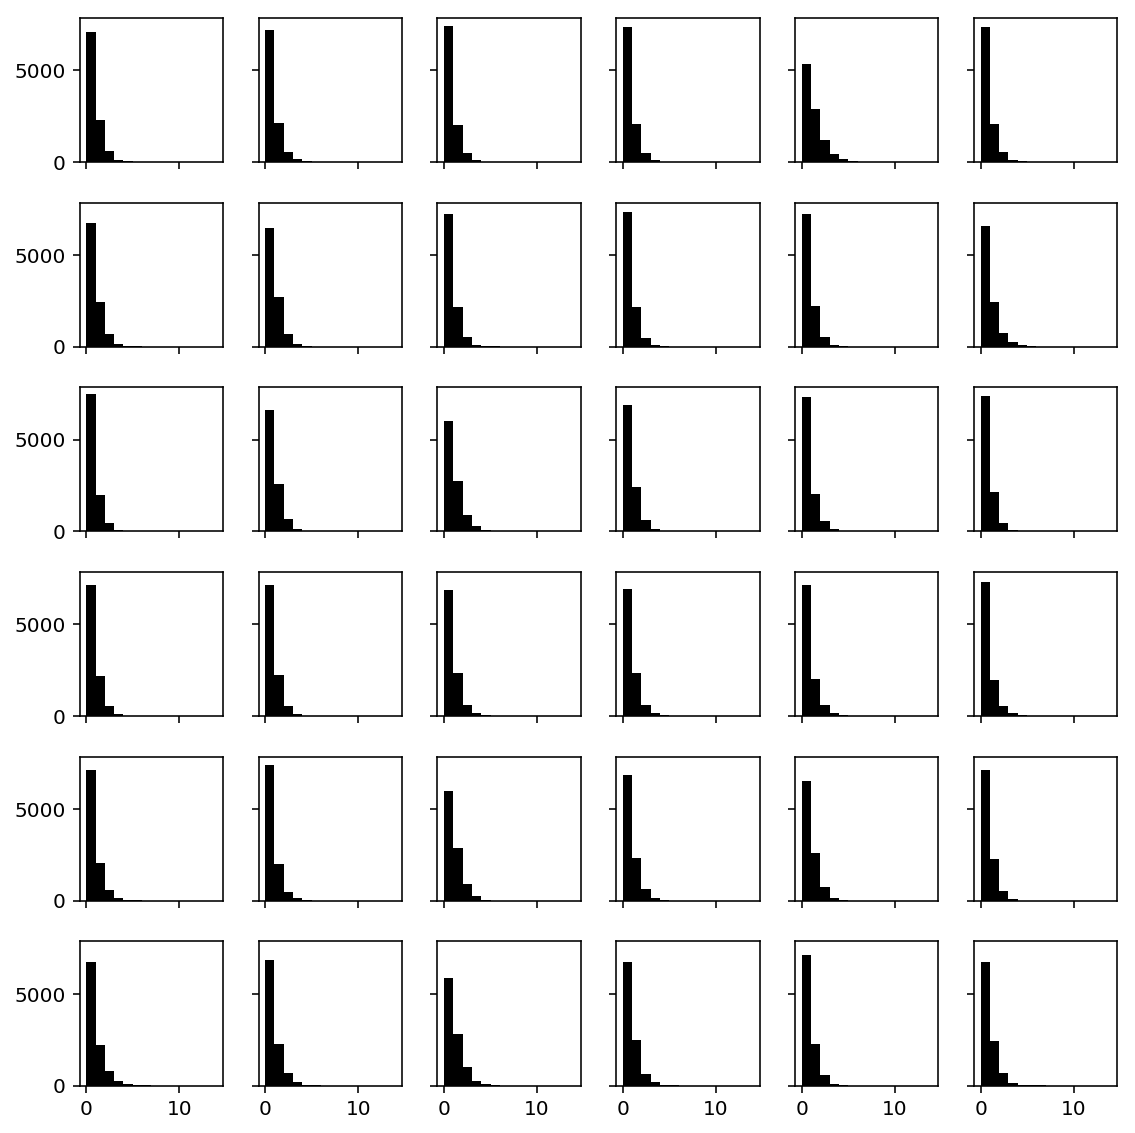
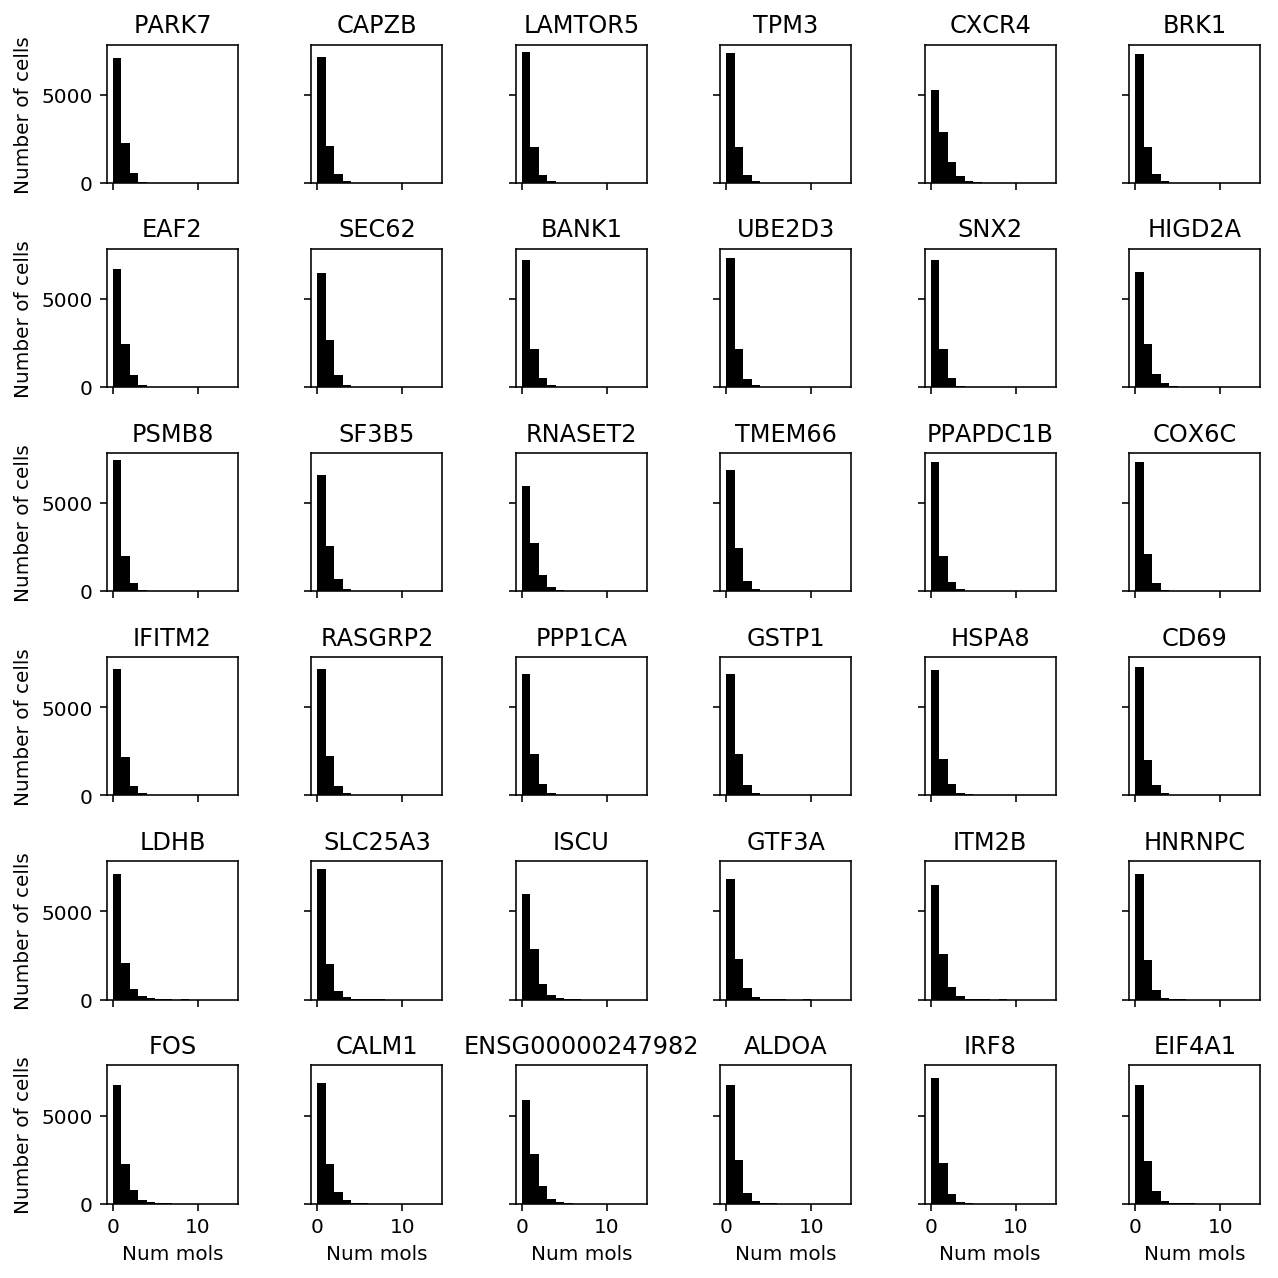
Plot more examples

diff --git a/docs/deconvolution.html b/docs/deconvolution.html
@@ -1,7 +1,7 @@
 <!DOCTYPE html>
 <html lang="en">
 <head>
-<!-- 2019-04-06 Sat 16:21 -->
+<!-- 2019-04-06 Sat 16:45 -->
 <meta charset="utf-8">
 <meta name="viewport" content="width=device-width, initial-scale=1">
 <title>Comparison of expression deconvolution approaches</title>
@@ -1188,7 +1188,7 @@ In B cells, several genes are better fit by DESCEND than other methods.
 </p>
 
 <div class="org-src-container">
-<pre class="src src-ipython"><span class="org-variable-name">b_cells</span> = read_10x(<span class="org-string">'/project2/mstephens/aksarkar/projects/singlecell-ideas/data/10xgenomics/b_cells/filtered_matrices_mex/hg19/'</span>)
+<pre class="src src-ipython"><span class="org-variable-name">b_cells</span> = read_10x(<span class="org-string">'/project2/mstephens/aksarkar/projects/singlecell-ideas/data/10xgenomics/b_cells/filtered_matrices_mex/hg19/'</span>, return_df=<span class="org-constant">True</span>)
 </pre>
 </div>
 
@@ -1196,9 +1196,14 @@ In B cells, several genes are better fit by DESCEND than other methods.
 <pre class="src src-ipython"><span class="org-variable-name">query</span> = benchmark[<span class="org-string">'cd19_b_cells'</span>][benchmark[<span class="org-string">'cd19_b_cells'</span>][<span class="org-string">'descend'</span>] &gt; benchmark[<span class="org-string">'cd19_b_cells'</span>][<span class="org-string">'nb'</span>]].index
 plt.clf()
 <span class="org-variable-name">fig</span>, <span class="org-variable-name">ax</span> = plt.subplots(6, 6, sharey=<span class="org-constant">True</span>, sharex=<span class="org-constant">True</span>)
-fig.set_size_inches(8, 8)
+fig.set_size_inches(9, 9)
 <span class="org-keyword">for</span> a, k <span class="org-keyword">in</span> <span class="org-builtin">zip</span>(ax.ravel(), query):
-  a.hist(b_cells[:,k], bins=b_cells[:,k].<span class="org-builtin">max</span>(), color=<span class="org-string">'k'</span>)
+  a.hist(b_cells.iloc[:,k], bins=b_cells.iloc[:,k].<span class="org-builtin">max</span>(), color=<span class="org-string">'k'</span>)
+  a.set_title(gene_info.loc[b_cells.columns[k], <span class="org-string">'name'</span>] <span class="org-keyword">if</span> b_cells.columns[k] <span class="org-keyword">in</span> gene_info.index <span class="org-keyword">else</span> b_cells.columns[k])
+<span class="org-keyword">for</span> y <span class="org-keyword">in</span> <span class="org-builtin">range</span>(ax.shape[0]):
+  ax[y][0].set_ylabel(<span class="org-string">'Number of cells'</span>)
+<span class="org-keyword">for</span> x <span class="org-keyword">in</span> <span class="org-builtin">range</span>(ax.shape[1]):
+  ax[-1][x].set_xlabel(<span class="org-string">'Num mols'</span>)
 fig.tight_layout()
 </pre>
 </div>
@@ -1227,6 +1232,10 @@ fig.set_size_inches(6, 4)
 <span class="org-keyword">for</span> a, k <span class="org-keyword">in</span> <span class="org-builtin">zip</span>(ax.ravel(), query):
   a.hist(ipsc_counts.loc[:,k], bins=ipsc_counts.loc[:,k].<span class="org-builtin">max</span>(), color=<span class="org-string">'k'</span>)
   a.set_title(gene_info.loc[k, <span class="org-string">'name'</span>])
+<span class="org-keyword">for</span> y <span class="org-keyword">in</span> <span class="org-builtin">range</span>(ax.shape[0]):
+  ax[y][0].set_ylabel(<span class="org-string">'Number of cells'</span>)
+<span class="org-keyword">for</span> x <span class="org-keyword">in</span> <span class="org-builtin">range</span>(ax.shape[1]):
+  ax[-1][x].set_xlabel(<span class="org-string">'Num mols'</span>)
 fig.tight_layout()
 </pre>
 </div>
@@ -1250,6 +1259,10 @@ fig.set_size_inches(6, 4)
 <span class="org-keyword">for</span> a, k <span class="org-keyword">in</span> <span class="org-builtin">zip</span>(ax.ravel(), query):
   a.hist(ipsc_counts.loc[:,k], bins=ipsc_counts.loc[:,k].<span class="org-builtin">max</span>(), color=<span class="org-string">'k'</span>)
   a.set_title(gene_info.loc[k, <span class="org-string">'name'</span>])
+<span class="org-keyword">for</span> y <span class="org-keyword">in</span> <span class="org-builtin">range</span>(ax.shape[0]):
+  ax[y][0].set_ylabel(<span class="org-string">'Number of cells'</span>)
+<span class="org-keyword">for</span> x <span class="org-keyword">in</span> <span class="org-builtin">range</span>(ax.shape[1]):
+  ax[-1][x].set_xlabel(<span class="org-string">'Num mols'</span>)
 fig.tight_layout()
 </pre>
 </div>
@@ -1282,11 +1295,18 @@ CD8+ T cells and CD19+ B cells from
 </p>
 
 <div class="org-src-container">
-<pre class="src src-ipython" id="org8d144fb"><span class="org-variable-name">cd8</span> = cd8_cytotoxic_t_cells(return_df=<span class="org-constant">True</span>)
-<span class="org-variable-name">cd19</span> = cd19_b_cells(return_df=<span class="org-constant">True</span>)
-<span class="org-variable-name">x</span> = pd.concat([cd8, cd19], axis=<span class="org-string">'index'</span>, join=<span class="org-string">'inner'</span>)
-<span class="org-variable-name">y</span> = np.zeros(x.shape[0]).astype(<span class="org-builtin">int</span>)
-y[:cd8.shape[0]] = 1
+<pre class="src src-ipython"><span class="org-keyword">def</span> <span class="org-function-name">cd8_cd19_mix</span>():
+  <span class="org-variable-name">cd8</span> = cd8_cytotoxic_t_cells(return_df=<span class="org-constant">True</span>)
+  <span class="org-variable-name">cd19</span> = cd19_b_cells(return_df=<span class="org-constant">True</span>)
+  <span class="org-variable-name">x</span> = pd.concat([cd8, cd19], axis=<span class="org-string">'index'</span>, join=<span class="org-string">'inner'</span>)
+  <span class="org-variable-name">y</span> = np.zeros(x.shape[0]).astype(<span class="org-builtin">int</span>)
+  y[:cd8.shape[0]] = 1
+  <span class="org-keyword">return</span> x, y
+</pre>
+</div>
+
+<div class="org-src-container">
+<pre class="src src-ipython" id="org8d144fb"><span class="org-variable-name">x</span>, <span class="org-variable-name">y</span> = cd8_cd19_mix()
 <span class="org-variable-name">res</span> = evaluate_generalization(x.values, stratify=y, train_size=0.5, test_size=0.1, random_state=0)
 res.to_csv(f<span class="org-string">'/project2/mstephens/aksarkar/projects/singlecell-modes/data/deconv-generalization/cd8-cd19-mix.txt.gz'</span>, compression=<span class="org-string">'gzip'</span>, sep=<span class="org-string">'\t'</span>)
 </pre>
@@ -1397,6 +1417,56 @@ fig.tight_layout()
 </div>
 </div>
 </div>
+
+<div id="outline-container-orgcdbbb38" class="outline-4">
+<h4 id="orgcdbbb38">Investigate genes favoring more complex models</h4>
+<div class="outline-text-4" id="text-orgcdbbb38">
+<p>
+Read the data.
+</p>
+
+<div class="org-src-container">
+<pre class="src src-ipython"><span class="org-variable-name">mix1</span>, <span class="org-variable-name">y1</span> = cd8_cd19_mix()
+<span class="org-variable-name">mix2</span>, <span class="org-variable-name">y2</span> = cyto_naive_t_mix()
+</pre>
+</div>
+
+<p>
+Look at genes where NPMLE has higher validation set log likelihood than NB.
+</p>
+
+<div class="org-src-container">
+<pre class="src src-ipython"><span class="org-variable-name">llik_diff</span> = benchmark[<span class="org-string">'cd8-cd19-mix'</span>][<span class="org-string">'npmle'</span>] - benchmark[<span class="org-string">'cd8-cd19-mix'</span>][<span class="org-string">'nb'</span>]
+<span class="org-variable-name">query</span> = benchmark[<span class="org-string">'cd8-cd19-mix'</span>].loc[llik_diff[llik_diff &gt; 0].sort_values(ascending=<span class="org-constant">False</span>).head(n=4).index].index
+</pre>
+</div>
+
+<div class="org-src-container">
+<pre class="src src-ipython">plt.clf()
+<span class="org-variable-name">fig</span>, <span class="org-variable-name">ax</span> = plt.subplots(1, 4)
+fig.set_size_inches(8, 2)
+<span class="org-keyword">for</span> a, k <span class="org-keyword">in</span> <span class="org-builtin">zip</span>(ax.ravel(), query):
+  a.hist(mix1.iloc[:,k], bins=mix1.iloc[:,k].<span class="org-builtin">max</span>(), color=<span class="org-string">'k'</span>)
+  a.set_title(gene_info.loc[mix1.columns[k], <span class="org-string">'name'</span>] <span class="org-keyword">if</span> mix1.columns[k] <span class="org-keyword">in</span> gene_info.index <span class="org-keyword">else</span> mix1.columns[k])
+  a.set_xlabel(<span class="org-string">'Number of molecules'</span>)
+ax[0].set_ylabel(<span class="org-string">'Number of cells'</span>)
+fig.tight_layout()
+</pre>
+</div>
+
+
+<div class="figure">
+<p><img src="figure/deconvolution.org/cd8-cd19-mix-npmle-examples.png" alt="cd8-cd19-mix-npmle-examples.png">
+</p>
+</div>
+
+<p>
+<i>CD74</i> appears to be the first good example of a gene (so far) showing
+bimodal gene expression as predicted by a simple kinetic model (Munsky et
+al. 2013, Kim and Marioni 2013).
+</p>
+</div>
+</div>
 </div>
 
 <div id="outline-container-orgae913a7" class="outline-3">
@@ -1418,7 +1488,7 @@ fig.tight_layout()
 </div>
 <div id="postamble" class="status">
 <p class="author">Author: Abhishek Sarkar</p>
-<p class="date">Created: 2019-04-06 Sat 16:21</p>
+<p class="date">Created: 2019-04-06 Sat 16:45</p>
 <p class="validation"><a href="http://validator.w3.org/check?uri=referer">Validate</a></p>
 </div>
 </body>
